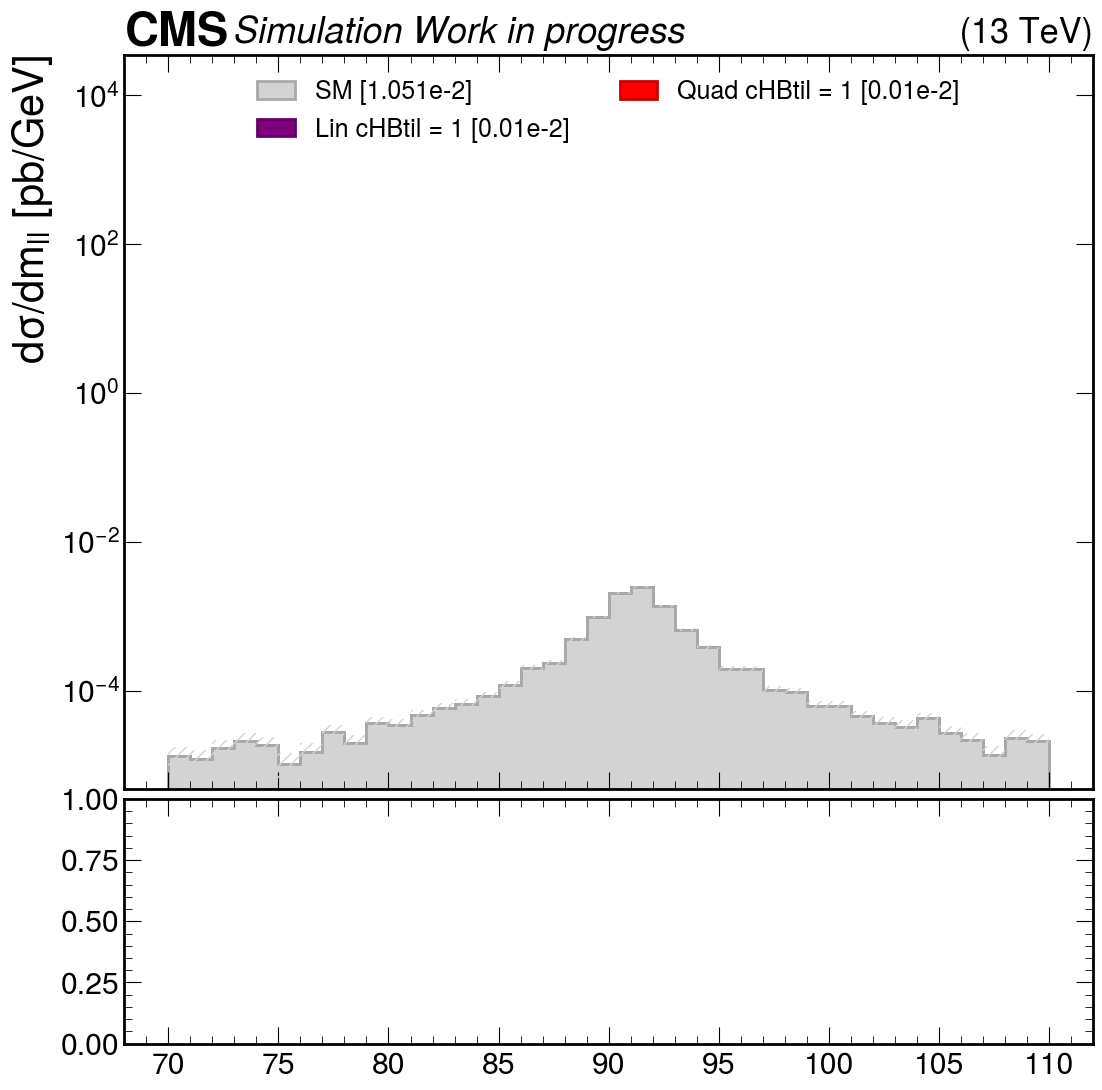
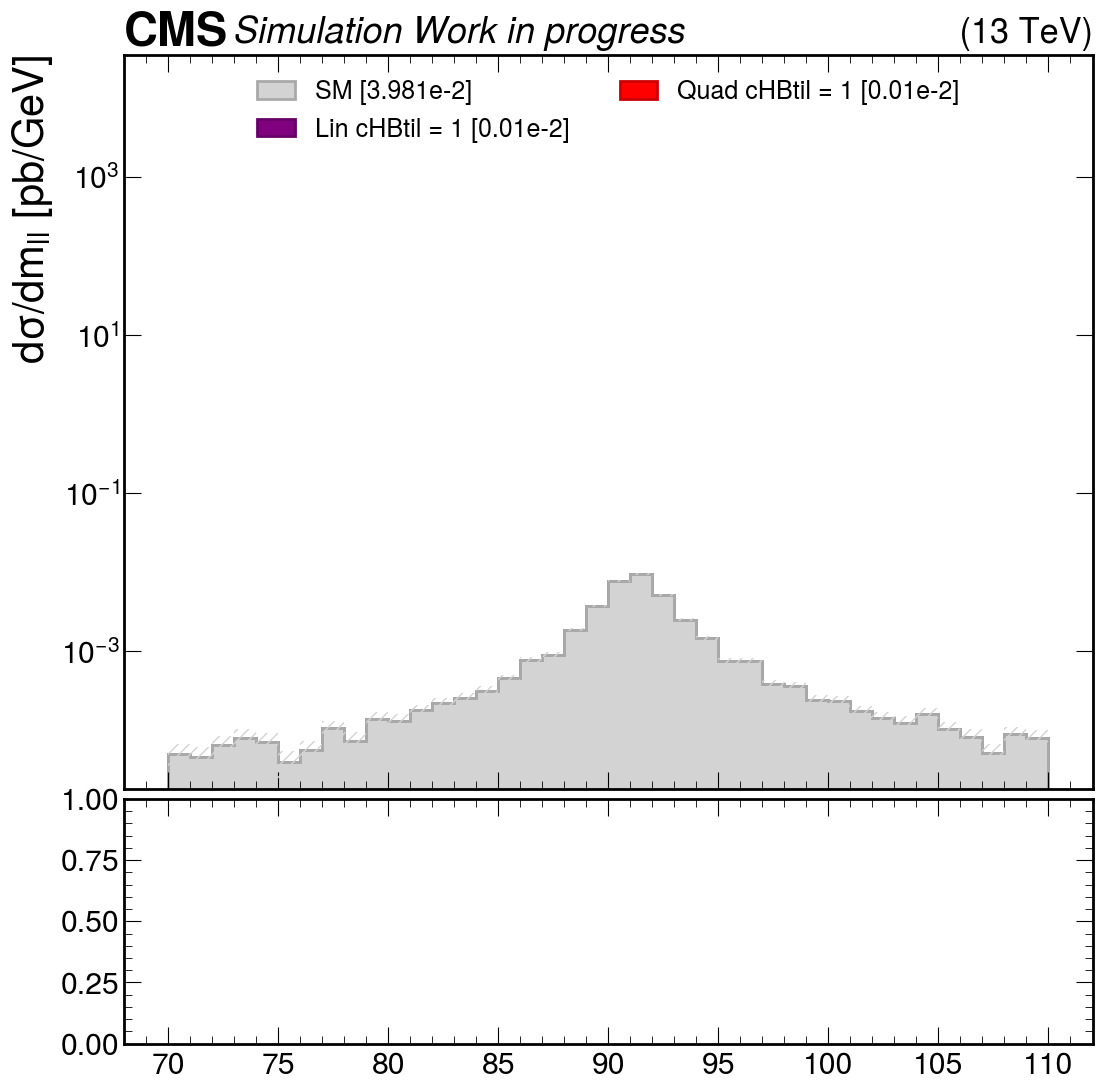
cambio

diff --git a/an.py b/an.py
@@ -45,7 +45,7 @@ def main():
     xs = []
 
     #itero su ogni file contenuto in files
-    for index in range(len(files)):
+    for index in range(len(files) - 2):
         file = files[index]
  
         print(file, index)
@@ -60,7 +60,7 @@ def main():
         arr = pylhe.to_awkward(pylhe.read_lhe_with_attributes(file) , weight_names)
 
         #calcolo peso nominale per tutti gli eventi e controllo la somma restituisca la sezione d'urto
-        tot_nom_weights = arr.eventinfo.weight * xs[index] * 1000/ ak.sum(arr.eventinfo.weight)
+        tot_nom_weights = arr.eventinfo.weight * xs[index] * 1000
         print("cross-section del file: " + str(xs[index]))
         print("somma pesi nominali: " + str(ak.sum(tot_nom_weights)))
 
